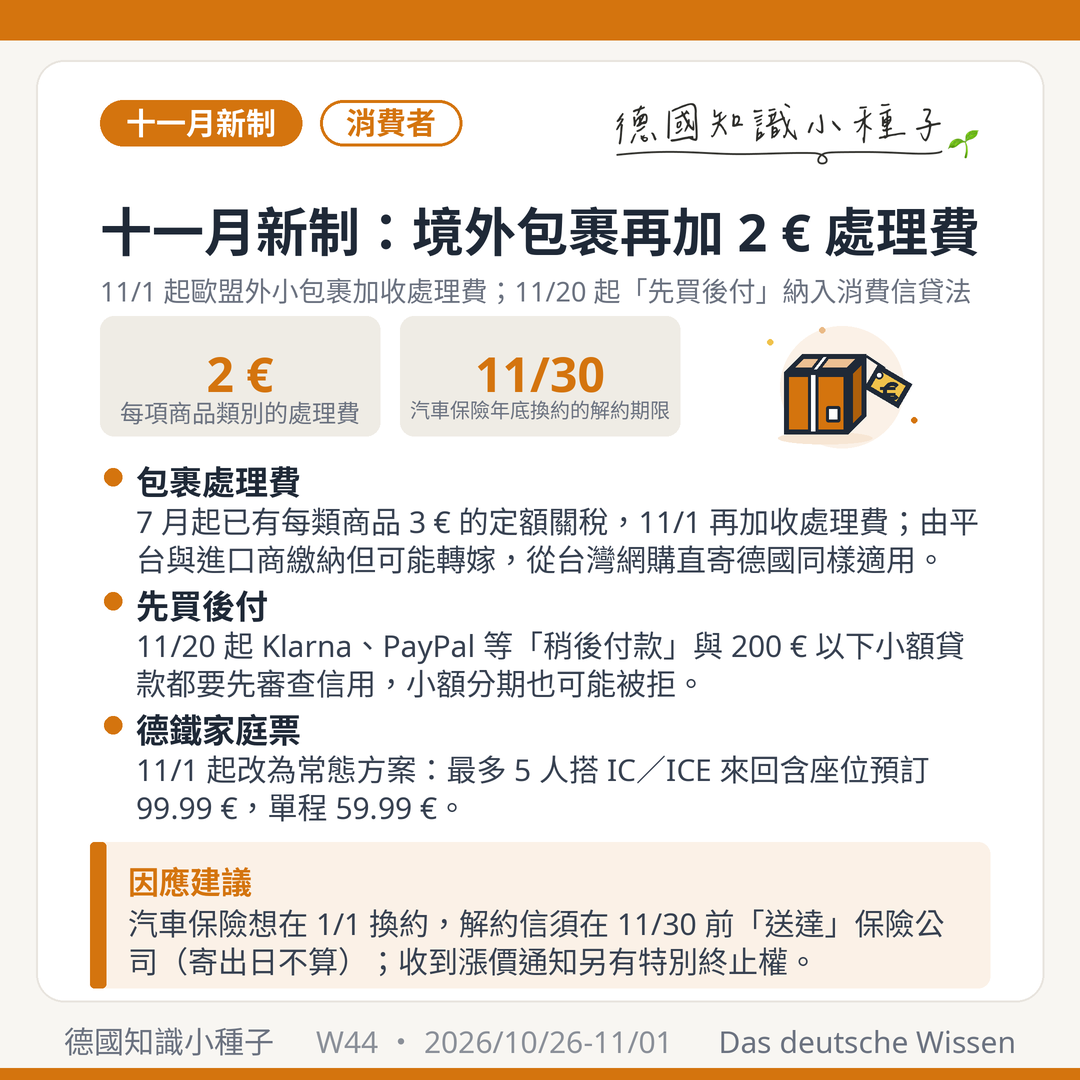
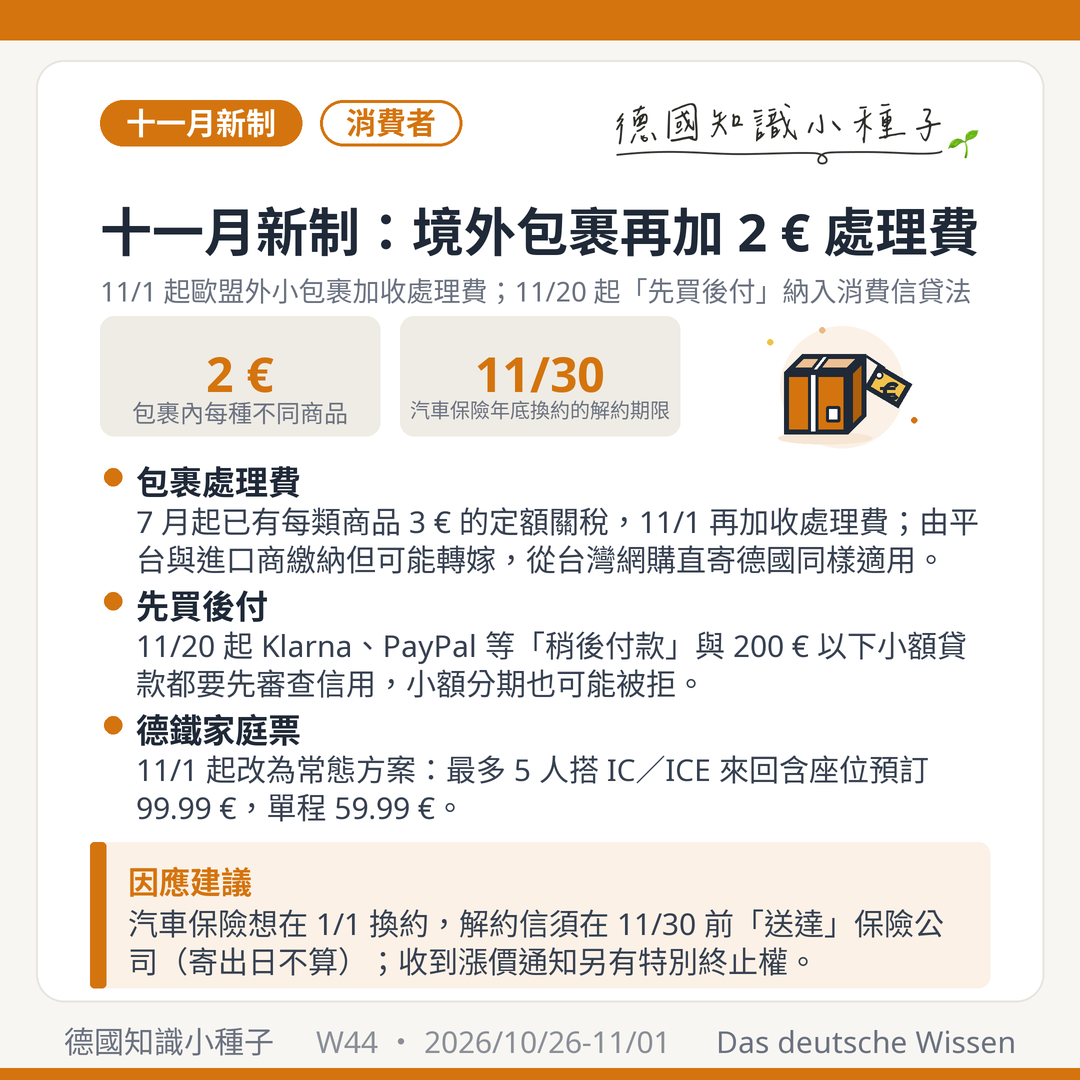
W44 修正：包裹處理費改為「每種商品 2 €」＋福斯第三季財報補實際數字
- 圖卡1 重產：stats 標籤改為「包裹內每種不同商品」
- 更新 data.js 週報段落並重建 weekly-digest.html、feed.xml
- 三版社群稿與 W44_posts.json 同步更新（依德國海關總署說明舉例；福斯 Q3 稅後虧損 58.2 億歐元）

diff --git a/posts/weekly-digest.html b/posts/weekly-digest.html
@@ -6,13 +6,13 @@
 <meta name="viewport" content="width=device-width, initial-scale=1.0" />
 <meta name="referrer" content="strict-origin-when-cross-origin" />
 <title>德國知識小種子週報精選 | 德國知識小種子</title>
-<meta name="description" content="先看荷包：11 月 1 日起，從歐盟以外寄來的小包裹在每類商品 3 € 定額關稅之外，再加收約 2 € 處理費，由平台與進口商繳納但可能轉嫁，從台灣網購直寄同樣適用；11 月 20 日起 Klarna、PayPal 等「先買後付」與 200 € 以下小額貸款都要先審查信用；德鐵家庭票 11 月 1 日起常態化，最多 5" />
+<meta name="description" content="先看荷包：11 月 1 日起，從歐盟以外寄來的小包裹在每類商品 3 € 定額關稅之外，每種商品再加收 2 € 處理費，由平台與進口商繳納但可能轉嫁，從台灣網購直寄同樣適用；11 月 20 日起 Klarna、PayPal 等「先買後付」與 200 € 以下小額貸款都要先審查信用；德鐵家庭票 11 月 1 日起常態化，最" />
 <meta name="robots" content="index, follow" />
 <link rel="canonical" href="https://taiwanese-in-germany.com/posts/weekly-digest.html" />
 <meta property="og:type" content="article" />
 <meta property="og:site_name" content="德國知識小種子 Das deutsche Wissen" />
 <meta property="og:title" content="德國知識小種子週報精選 | 德國知識小種子" />
-<meta property="og:description" content="先看荷包：11 月 1 日起，從歐盟以外寄來的小包裹在每類商品 3 € 定額關稅之外，再加收約 2 € 處理費，由平台與進口商繳納但可能轉嫁，從台灣網購直寄同樣適用；11 月 20 日起 Klarna、PayPal 等「先買後付」與 200 € 以下小額貸款都要先審查信用；德鐵家庭票 11 月 1 日起常態化，最多 5" />
+<meta property="og:description" content="先看荷包：11 月 1 日起，從歐盟以外寄來的小包裹在每類商品 3 € 定額關稅之外，每種商品再加收 2 € 處理費，由平台與進口商繳納但可能轉嫁，從台灣網購直寄同樣適用；11 月 20 日起 Klarna、PayPal 等「先買後付」與 200 € 以下小額貸款都要先審查信用；德鐵家庭票 11 月 1 日起常態化，最" />
 <meta property="og:url" content="https://taiwanese-in-germany.com/posts/weekly-digest.html" />
 <meta property="og:image" content="https://taiwanese-in-germany.com/assets/images/2026/weekly/W44_圖卡1_十一月新制包裹處理費.png" />
 <meta property="og:locale" content="zh_TW" />
@@ -23,9 +23,9 @@
 <meta property="article:tag" content="時事" />
 <meta name="twitter:card" content="summary_large_image" />
 <meta name="twitter:title" content="德國知識小種子週報精選 | 德國知識小種子" />
-<meta name="twitter:description" content="先看荷包：11 月 1 日起，從歐盟以外寄來的小包裹在每類商品 3 € 定額關稅之外，再加收約 2 € 處理費，由平台與進口商繳納但可能轉嫁，從台灣網購直寄同樣適用；11 月 20 日起 Klarna、PayPal 等「先買後付」與 200 € 以下小額貸款都要先審查信用；德鐵家庭票 11 月 1 日起常態化，最多 5" />
+<meta name="twitter:description" content="先看荷包：11 月 1 日起，從歐盟以外寄來的小包裹在每類商品 3 € 定額關稅之外，每種商品再加收 2 € 處理費，由平台與進口商繳納但可能轉嫁，從台灣網購直寄同樣適用；11 月 20 日起 Klarna、PayPal 等「先買後付」與 200 € 以下小額貸款都要先審查信用；德鐵家庭票 11 月 1 日起常態化，最" />
 <meta name="twitter:image" content="https://taiwanese-in-germany.com/assets/images/2026/weekly/W44_圖卡1_十一月新制包裹處理費.png" />
-<script type="application/ld+json">{"@context":"https://schema.org","@type":"BlogPosting","headline":"德國知識小種子週報精選","description":"先看荷包：11 月 1 日起，從歐盟以外寄來的小包裹在每類商品 3 € 定額關稅之外，再加收約 2 € 處理費，由平台與進口商繳納但可能轉嫁，從台灣網購直寄同樣適用；11 月 20 日起 Klarna、PayPal 等「先買後付」與 200 € 以下小額貸款都要先審查信用；德鐵家庭票 11 月 1 日起常態化，最多 5","image":"https://taiwanese-in-germany.com/assets/images/2026/weekly/W44_圖卡1_十一月新制包裹處理費.png","url":"https://taiwanese-in-germany.com/posts/weekly-digest.html","datePublished":"2026-11-01","dateModified":"2026-11-01","author":{"@type":"Person","name":"德國知識小種子","url":"https://taiwanese-in-germany.com"},"publisher":{"@type":"Organization","name":"德國知識小種子 Das deutsche Wissen","url":"https://taiwanese-in-germany.com","logo":{"@type":"ImageObject","url":"https://taiwanese-in-germany.com/assets/logo.png"}},"mainEntityOfPage":{"@type":"WebPage","@id":"https://taiwanese-in-germany.com/posts/weekly-digest.html"},"inLanguage":"zh-TW","keywords":"週報, 德國政策, 時事"}</script>
+<script type="application/ld+json">{"@context":"https://schema.org","@type":"BlogPosting","headline":"德國知識小種子週報精選","description":"先看荷包：11 月 1 日起，從歐盟以外寄來的小包裹在每類商品 3 € 定額關稅之外，每種商品再加收 2 € 處理費，由平台與進口商繳納但可能轉嫁，從台灣網購直寄同樣適用；11 月 20 日起 Klarna、PayPal 等「先買後付」與 200 € 以下小額貸款都要先審查信用；德鐵家庭票 11 月 1 日起常態化，最","image":"https://taiwanese-in-germany.com/assets/images/2026/weekly/W44_圖卡1_十一月新制包裹處理費.png","url":"https://taiwanese-in-germany.com/posts/weekly-digest.html","datePublished":"2026-11-01","dateModified":"2026-11-01","author":{"@type":"Person","name":"德國知識小種子","url":"https://taiwanese-in-germany.com"},"publisher":{"@type":"Organization","name":"德國知識小種子 Das deutsche Wissen","url":"https://taiwanese-in-germany.com","logo":{"@type":"ImageObject","url":"https://taiwanese-in-germany.com/assets/logo.png"}},"mainEntityOfPage":{"@type":"WebPage","@id":"https://taiwanese-in-germany.com/posts/weekly-digest.html"},"inLanguage":"zh-TW","keywords":"週報, 德國政策, 時事"}</script>
 <script type="application/ld+json">{"@context":"https://schema.org","@type":"BreadcrumbList","itemListElement":[{"@type":"ListItem","position":1,"name":"首頁","item":"https://taiwanese-in-germany.com/"},{"@type":"ListItem","position":2,"name":"德國時事","item":"https://taiwanese-in-germany.com/category.html?cat=%E5%BE%B7%E5%9C%8B%E6%99%82%E4%BA%8B"},{"@type":"ListItem","position":3,"name":"德國知識小種子週報精選","item":"https://taiwanese-in-germany.com/posts/weekly-digest.html"}]}</script>
 <link rel="stylesheet" href="/css/style.css" />
 <link rel="alternate" type="application/rss+xml" title="德國知識小種子 RSS" href="/feed.xml" />
@@ -139,7 +139,7 @@
   <article class="post-content"><nav class="post-toc" aria-label="本篇目錄">
   <p class="post-toc__title">快速跳轉</p>
   <ul>
-    <li><a href="#oct26-nov1">10月26日–11月1日：十一月新制（11/1 起歐盟外小包裹在 3 € 定額關稅之外再加收約 2 € 處理費、11/20 起「先買後付」與 200 € 以下小額貸款須審查信用、德鐵家庭票常態化最多 5 人 IC／ICE 來回 99.99 €、汽車保險換約解約信須 11/30 前送達）、金屬電機業 11/1 起可發動警告性罷工（約 370 萬名員工，資方 10/27 首度出價 2027 年一次性給付與 2028 年 7 月調薪 1.3%，IG Metall 要求 12 個月加薪 5%）、賓士下修財測（第三季中國銷量年減 31%、轎車利潤率目標從 3–5% 降到 2–3%，12 月起再以資遣方案縮減數千個行政職位）、德日聯合聲明重申台海和平穩定（Merz 10/26–30 訪新加坡、日本、南韓，與高市早苗簽署關鍵原物料意向書；Steinmeier 同週國事訪問中國）、核廢料最終處置場候選範圍縮到國土 5% 以下（BGE 10/27 公布、5 個邦完全出局、2027 年底提出候選區域）、ifo 景氣指數連升第六個月到 90.2 點（製造業轉強、服務業轉弱）</a></li>
+    <li><a href="#oct26-nov1">10月26日–11月1日：十一月新制（11/1 起歐盟外小包裹在 3 € 定額關稅之外每種商品再加收 2 € 處理費、11/20 起「先買後付」與 200 € 以下小額貸款須審查信用、德鐵家庭票常態化最多 5 人 IC／ICE 來回 99.99 €、汽車保險換約解約信須 11/30 前送達）、金屬電機業 11/1 起可發動警告性罷工（約 370 萬名員工，資方 10/27 首度出價 2027 年一次性給付與 2028 年 7 月調薪 1.3%，IG Metall 要求 12 個月加薪 5%）、賓士下修財測（第三季中國銷量年減 31%、轎車利潤率目標從 3–5% 降到 2–3%，12 月起再以資遣方案縮減數千個行政職位）、德日聯合聲明重申台海和平穩定（Merz 10/26–30 訪新加坡、日本、南韓，與高市早苗簽署關鍵原物料意向書；Steinmeier 同週國事訪問中國）、核廢料最終處置場候選範圍縮到國土 5% 以下（BGE 10/27 公布、5 個邦完全出局、2027 年底提出候選區域）、ifo 景氣指數連升第六個月到 90.2 點（製造業轉強、服務業轉弱）</a></li>
     <li><a href="#oct19-25">10月19日–25日：週日凌晨調回冬令時間（10/25 凌晨 3:00 撥回 2:00、台德時差變 7 小時，歐盟廢除案 2019 年起卡在理事會）、明年瓦斯費恐漲 10–20%（九月生產者物價年增 6.7% 為 2023 年 3 月以來最大、能源年增 14.9%，Verivox 預估 1 月起依方案調漲、年用 2 萬度家庭多付 250–500 €，基本供應調價須 11/20 前通知）、柏林擬將大房東約 16 萬戶收歸公有（柏林邦〔Berlin〕SPD 與綠黨 10/19 同意與左翼黨組閣談判，持有逾 1 萬戶的企業超出部分依基本法第 15 條轉為公有、補償金上限 160 億歐元，Vonovia 稱違憲）、福斯傳凍薪到 2030 年（《南德日報》10/19 披露、IG Metall 證實，全球約 66 萬名員工，公司不評論；金屬電機業和平義務 10/31 到期）、Bosch 汽車事業拆成子公司（10/22 宣布 Mobility 與三個中央服務單位改組為 4 家全資子公司、約 6.25 萬名在德員工 2027/8/1 移轉，不另外裁員）、45 年免扣減退休的育兒與照護年資恐不再採計（聯盟黨構想、SPD 反對，退休改革恐延到 2027 年）、菸稅漲價法因條文疏失 10/21 提前生效（海關暫不執行、菸價暫不變；2030 年一包約 11.78 €）、投資高峰會企業承諾約 2,300 億歐元（經濟部統計 2,286 億歐元、不少為舊案）</a></li>
     <li><a href="#oct12-18">10月12日–18日：健保附加保費 2027 年預估維持 2.9%（健保估算小組 10/14 公布，但各健保公司實際平均已達約 3.13%，調漲時可行使特別終止權）、早鳥退休金 10/16 三讀通過（國家從孩子 6 歲起每月存 10 €、合計 1,440 €，2020 年出生者最先納入，仍待聯邦參議院）、含糖飲料稅 10/14 過內閣（每 100 毫升含糖 5 公克以上每公升 26 歐分、8 公克以上 32 歐分，2027 年 7 月 1 日上路、稅收用於穩定健保）、BMW 自願離職方案開跑（2027 年底前全球縮約 8,000 個職位、據報約 4 萬名德國員工可查看方案；賓士傳 12 月重啟第二輪、福斯終止十份團體協約）、北溪管線爆炸案 10/14 在漢堡開審（烏克蘭籍被告 Serhij K.，辯方主張職務豁免）、聯邦國防軍衛勤團 10 人涉毒品與性不當行為遭調查（薩克森-安哈特邦〔Sachsen-Anhalt〕Weißenfels 駐地）</a></li>
     <li><a href="#oct5-11">10月5日–11日：Deutschland-Ticket 2027 年 1 月起每月 66.80 €（比現行多 3.80 €，首次依成本指數調價；學生票 40.08 €，部分業者要求既有訂閱者主動同意）、保時捷（Porsche）10/7 公布 Sportwagenschmiede '35 轉型計畫而中期人力再縮 25%（車型版本砍約兩成、損益平衡壓到年銷 20 萬輛以下；福斯軟體子公司 Cariad 傳裁約 1,000 個職位、Breyden 年底關閉梅克倫堡-佛波門邦（Mecklenburg-Vorpommern）Ueckermünde 鑄鐵廠約 320 人受影響）、2027 年輸電網費平均漲 24% 而每度從 2.86 升到 3.54 歐分（聯邦補貼降到 55.25 億歐元，Verivox 試算雙人家庭每年約多付 7 €；暖氣費指標預估燒油暖氣年增 24%）、前聯邦情報局（BND）局長 Hanning 涉諜被捕羈押（前辦公室主任涉嫌 2010–2022 年有償提供情報，源自 Block 擄童案搜索）、AfD 首度拿下邦議會議長（薩克森-安哈特邦〔Sachsen-Anhalt〕Rausch 以 48 票當選而 AfD 與 BSW 僅 44 席，議長團三分之二為 AfD）、政府秋季預測上修今年成長到 1.3%（2028 年放緩到 0.6%）而八月工業訂單月減 10.6% 但扣除大單僅 -0.1%</a></li>
@@ -172,16 +172,16 @@
   </ul>
 </nav>
 
-<h2 id="oct26-nov1">10月26日–11月1日：十一月新制（11/1 起境外包裹加收約 2 € 處理費、11/20 起「先買後付」須審查信用、德鐵家庭票 99.99 € 常態化、汽車保險 11/30 前送達解約）、金屬電機業 11/1 起可發動警告性罷工（資方首度出價 2028 年 7 月才調薪 1.3%、工會要求 5%）、賓士下修財測（第三季中國銷量年減 31%、轎車利潤率目標降到 2–3%）、德日聯合聲明重申台海和平穩定（Merz 訪新加坡、日本、南韓，Steinmeier 同週訪中）、核廢料最終處置場候選範圍縮到國土 5% 以下（5 個邦完全出局）、ifo 景氣指數六連升到 90.2 點</h2>
+<h2 id="oct26-nov1">10月26日–11月1日：十一月新制（11/1 起境外包裹每種商品加收 2 € 處理費、11/20 起「先買後付」須審查信用、德鐵家庭票 99.99 € 常態化、汽車保險 11/30 前送達解約）、金屬電機業 11/1 起可發動警告性罷工（資方首度出價 2028 年 7 月才調薪 1.3%、工會要求 5%）、賓士下修財測（第三季中國銷量年減 31%、轎車利潤率目標降到 2–3%）、德日聯合聲明重申台海和平穩定（Merz 訪新加坡、日本、南韓，Steinmeier 同週訪中）、核廢料最終處置場候選範圍縮到國土 5% 以下（5 個邦完全出局）、ifo 景氣指數六連升到 90.2 點</h2>
 <p>這週先從<strong>荷包</strong>看起：11 月 1 日起，從歐盟以外寄來的小包裹在 3 € 定額關稅之外，再加收一筆處理費；11 月 20 日起，Klarna、PayPal 這類「先買後付」也要先審查信用。<strong>汽車業</strong>同時有兩件事：金屬電機業的和平義務 10 月 31 日午夜到期，資方第一次出價被工會打回票，11 月 1 日起可以發動警告性罷工；賓士則因中國銷量崩跌，下修全年財測。<strong>外交面</strong>，總理 Merz 本週出訪新加坡、日本與南韓，與日相高市早苗的聯合聲明寫進了台灣海峽的和平穩定；聯邦總統 Steinmeier 同一週在中國進行國事訪問。另外兩則：核廢料最終處置場的候選範圍縮到國土 5% 以下，以及 ifo 企業景氣指數連升第六個月。</p>
 
 <img src="/assets/images/2026/weekly/W44_圖卡1_十一月新制包裹處理費.png" alt="德國2026年11月新制 11月1日起歐盟以外小包裹在3歐元定額關稅之外加收處理費Bearbeitungsgebühr約2歐元 由平台與進口商繳納 Temu Shein AliExpress 從台灣網購直寄德國同樣適用 11月20日起先買後付Buy now pay later Klarna PayPal與200歐元以下小額貸款納入消費信貸法須審查信用Kreditwürdigkeitsprüfung 德鐵DB家庭票Familienticket 11月1日起常態化 最多5人IC ICE來回含座位預訂99.99歐元 單程59.99歐元 汽車保險Kfz-Versicherung換約解約信須11月30日前送達">
 <h3>十一月新制：境外包裹再加 2 € 處理費、「先買後付」要查信用、德鐵家庭票常態化</h3>
-<p><strong>境外包裹處理費：</strong>歐盟從今年 7 月 1 日起，對價值 150 € 以下、從歐盟以外寄來的小包裹，每一類商品收取 <strong>3 € 定額關稅</strong>（見本站 <a href="#jun29-jul5">W27</a>）；<strong>11 月 1 日起再加收一筆處理費（Bearbeitungsgebühr）</strong>。依多家德國與奧地利媒體報導，金額為<strong>每項商品類別約 2 €</strong>，退貨不退還，而且和 3 € 關稅不同，處理費預計會<strong>長期實施</strong>。依歐盟成員國的說法，處理費由<strong>線上平台與進口商</strong>負責繳納，但業者很可能把成本轉嫁給消費者，Temu、Shein、AliExpress 與 Amazon 等平台都在範圍內。要注意，「每項商品類別」的計算方式在各國官方文件中說法並不一致（有的寫「每項商品」、有的寫「每個產品群組」），實際收費要看平台結帳時的明細。<strong>台灣在關稅意義上同樣是第三國</strong>，從台灣網購直寄德國的包裹一體適用。</p>
+<p><strong>境外包裹處理費：</strong>歐盟從今年 7 月 1 日起，對價值 150 € 以下、從歐盟以外寄來的小包裹，每一類商品收取 <strong>3 € 定額關稅</strong>（見本站 <a href="#jun29-jul5">W27</a>）；<strong>11 月 1 日起再加收一筆處理費（Bearbeitungsgebühr）</strong>。德國海關總署（Generalzolldirektion）說明，金額是<strong>包裹內每一種不同貨品（Warenposition）2 €</strong>，看的是品項數、不是件數：一件 T 恤、一個手機殼加一本書要付 6 €，四件同款 T 恤則只算一次 2 €。處理費退貨不退還，而且和 3 € 關稅不同，處理費預計會<strong>長期實施</strong>。依歐盟成員國的說法，處理費由<strong>線上平台與進口商</strong>負責繳納，但業者很可能把成本轉嫁給消費者，Temu、Shein、AliExpress 與 Amazon 等平台都在範圍內。實際收費仍以平台結帳時的明細為準。<strong>台灣在關稅意義上同樣是第三國</strong>，從台灣網購直寄德國的包裹一體適用。</p>
 <p><strong>「先買後付」要先查信用：</strong>歐盟新版消費信貸指令的德國施行法 <strong>11 月 20 日</strong>上路。過去免息的「稍後付款」（Buy now, pay later）、<strong>200 € 以下的小額貸款</strong>與三個月內還清的短期貸款不受消費信貸法規範，今後都要納入：業者<strong>不論金額大小，都必須在成約前審查借款人的信用（Kreditwürdigkeitsprüfung）</strong>，並清楚揭露費用與風險。消費者團體與業界都提醒，這代表以往按一下就通過的 Klarna、PayPal、Ratepay 分期或延後付款，<strong>未來可能被拒</strong>，即使只是小額購物。另一項改變是「永久撤回權」走入歷史：若業者提供的法定資訊有瑕疵，撤回期限今後最長為 12 個月又 14 天。📖 <strong>延伸閱讀</strong>：信用審查多半會參考 Schufa 紀錄，想先看看自己的狀況，可參考<a href="/posts/schufa-free.html">如何免費申請德國 Schufa 證明</a>。</p>
 <p><strong>德鐵家庭票常態化：</strong>德國鐵路（DB）今年夏天試辦的家庭票反應熱烈，執行長 Evelyn Palla 表示比去年多載了 10 萬個家庭，因此改為常態方案，<strong>10 月 26 日開賣、11 月 1 日起可搭乘</strong>：最多 5 人（含兒童）搭 IC／ICE 來回，<strong>含座位預訂 99.99 €</strong>，單程 59.99 €。成人與兒童的人數組合，各媒體依夏季版規則的說法略有出入，訂票前請以 DB 官網條件為準。</p>
 <p><strong>因應建議：</strong>汽車保險多以曆年為契約期，想在 1 月 1 日換到別家，<strong>解約信必須在 11 月 30 日前「送達」保險公司</strong>，寄出日不算。德國保險業協會（GDV）9 月底公布的 2027 年車型等級（Typklassen）中，約 740 萬名駕駛的責任險等級調高、510 萬名調低；保險公司多在 11 月寄出新年度保費通知，若因此漲價，另有<strong>特別終止權（Sonderkündigungsrecht）</strong>，可在收到通知後解約。另外，11 月 1 日起也可以申請 2027 年的薪資稅免稅額（Lohnsteuerfreibetrag）；歐盟新的汽車排放標準 Euro 7 則自 11 月 29 日起適用於新認證車型，已登記的車輛不須改裝。</p>
-<p class="post-sources">📚 來源：<a href="https://www.t-online.de/finanzen/aktuelles/verbraucher/id_101438534/temu-shein-co-pakete-ausserhalb-der-eu-werden-zum-1-november-teurer.html" target="_blank" rel="noopener noreferrer">t-online：歐盟外包裹 11/1 起變貴</a> · <a href="https://orf.at/stories/3425106/" target="_blank" rel="noopener noreferrer">ORF：廉價網購商品處理費上路</a> · <a href="https://www.deutsche-handwerks-zeitung.de/aenderungen-im-november-2026-zoll-reformen-und-kleinkredite-385584/" target="_blank" rel="noopener noreferrer">Deutsche Handwerks Zeitung：十一月新制</a> · <a href="https://www.test.de/Verbraucherkreditrichtlinie-6337900-0/" target="_blank" rel="noopener noreferrer">Stiftung Warentest：新版消費信貸指令</a> · <a href="https://www.haendlerbund.de/de/ratgeber/recht/verbraucherkreditrichtlinie" target="_blank" rel="noopener noreferrer">Händlerbund：消費信貸指令對付款方式的新規</a> · <a href="https://www.netzwelt.de/news/259765-ab-20-november-paypal-ratepay-klarna-spaeter-bezahlen-ploetzlich-abgelehnt.html" target="_blank" rel="noopener noreferrer">netzwelt：11/20 起「稍後付款」可能被拒</a> · <a href="https://www.stuttgarter-zeitung.de/wirtschaft/ab-november-deutsche-bahn-bietet-familienticket-dauerhaft-an-79529536.html" target="_blank" rel="noopener noreferrer">Stuttgarter Zeitung：德鐵家庭票常態化</a> · <a href="https://www.cash-online.de/a/neue-typklassen-2027-diese-kfz-modelle-werden-teurer-diese-guenstiger-726766/" target="_blank" rel="noopener noreferrer">cash.：2027 年車型等級</a></p>
+<p class="post-sources">📚 來源：<a href="https://www.presseportal.de/blaulicht/pm/120080/6380083" target="_blank" rel="noopener noreferrer">德國海關總署：新的處理費（Union Handling Fee）</a> · <a href="https://www.t-online.de/finanzen/aktuelles/verbraucher/id_101438534/temu-shein-co-pakete-ausserhalb-der-eu-werden-zum-1-november-teurer.html" target="_blank" rel="noopener noreferrer">t-online：歐盟外包裹 11/1 起變貴</a> · <a href="https://orf.at/stories/3425106/" target="_blank" rel="noopener noreferrer">ORF：廉價網購商品處理費上路</a> · <a href="https://www.deutsche-handwerks-zeitung.de/aenderungen-im-november-2026-zoll-reformen-und-kleinkredite-385584/" target="_blank" rel="noopener noreferrer">Deutsche Handwerks Zeitung：十一月新制</a> · <a href="https://www.test.de/Verbraucherkreditrichtlinie-6337900-0/" target="_blank" rel="noopener noreferrer">Stiftung Warentest：新版消費信貸指令</a> · <a href="https://www.haendlerbund.de/de/ratgeber/recht/verbraucherkreditrichtlinie" target="_blank" rel="noopener noreferrer">Händlerbund：消費信貸指令對付款方式的新規</a> · <a href="https://www.netzwelt.de/news/259765-ab-20-november-paypal-ratepay-klarna-spaeter-bezahlen-ploetzlich-abgelehnt.html" target="_blank" rel="noopener noreferrer">netzwelt：11/20 起「稍後付款」可能被拒</a> · <a href="https://www.stuttgarter-zeitung.de/wirtschaft/ab-november-deutsche-bahn-bietet-familienticket-dauerhaft-an-79529536.html" target="_blank" rel="noopener noreferrer">Stuttgarter Zeitung：德鐵家庭票常態化</a> · <a href="https://www.cash-online.de/a/neue-typklassen-2027-diese-kfz-modelle-werden-teurer-diese-guenstiger-726766/" target="_blank" rel="noopener noreferrer">cash.：2027 年車型等級</a></p>
 
 <img src="/assets/images/2026/weekly/W44_圖卡2_金屬業十一月起可罷工.png" alt="德國金屬電機業Metall- und Elektroindustrie 2026年11月1日起可發動警告性罷工Warnstreik 和平義務Friedenspflicht 10月31日午夜到期 約370萬名員工 資方Gesamtmetall 10月27日首度出價 2027年7月年薪1%一次性給付 2028年7月起調薪1.3% 協約至2028年底 IG Metall要求12個月內加薪5% 北萊茵-西發利亞邦Nordrhein-Westfalen批評負成長 下薩克森邦Niedersachsen 11月1日起號召罷工 福斯適用企業協約">
 <h3>金屬電機業 11/1 起可發動警告性罷工：資方首度出價 2028 年才調薪 1.3%</h3>
@@ -196,8 +196,8 @@
 <p>賓士（Mercedes-Benz）10 月 28 日公布第三季財報：歸屬股東的<strong>淨利約 15.2 億歐元</strong>，年增近 28%；營業利益（EBIT）17.7 億歐元，去年同期只有 7.5 億歐元。但這個「成長」主要來自<strong>去年同期的低基期</strong>——當時認列了大筆裁員等一次性費用。營運面其實在退步：<strong>營收 307 億歐元、年減 4.5%</strong>，轎車銷量 40.72 萬輛、年減 8%，其中<strong>中國只賣出 8.68 萬輛、年減 31%</strong>；中國以外的銷量約持平（+1%），純電車則成長 61%。</p>
 <p><strong>為何下修：</strong>賓士前一天已宣布下修 2026 年財測，<strong>轎車部門的調整後銷售報酬率從 3–5% 降到 2–3%</strong>，集團營業利益從原本預估的「顯著成長」改為<strong>與去年持平</strong>，工業部門的自由現金流也會明顯低於預期。公司的說法是中國市場的競爭「愈來愈嚴峻」，加上第四季原物料等成本上升。消息公布當天股價跌約 4–5%；BMW 與福斯稍早也都已下修財測。</p>
 <p><strong>撙節加碼：</strong>據《新蘇黎世報》（NZZ）報導，賓士 <strong>12 月初起</strong>將再以資遣方案縮減數千個職位、以行政部門為主，目標是<strong>每年永久減少 10 億歐元人事成本</strong>（本站 <a href="#oct12-18">W42</a> 已報導賓士傳 12 月重啟第二輪自願離職方案）；整體目標是每年減少 50 億歐元支出，以彌補中國的衰退。執行長 Ola Källenius 也表示，未來要讓更多車款直接在中國研發與生產，並擴大<strong>匈牙利</strong>的產能——他說那裡的成本比德國低約七成。中國依賴要怎麼降低，更具體的計畫預計明年 2 月隨 2027 年財測一起公布。</p>
-<p><strong>數據解讀：</strong>同一週，福斯集團於 10 月 29 日公布第三季財報。福斯第三季全球交車 189 萬輛、年減約 14%，中國少了近四成；市場預期受保時捷（Porsche）商譽減損約 60 億歐元等一次性費用拖累，單季轉為虧損，但這筆減損屬帳面調整、不涉及現金流出。德國三大車廠同時被中國市場拖累，對在德國的就業意味著撙節不會在今年畫下句點。</p>
-<p class="post-sources">📚 來源：<a href="https://www.onvista.de/news/2026/10-28-mercedes-macht-nach-schwachem-vorjahresquartal-mehr-gewinn-0-10-26569138" target="_blank" rel="noopener noreferrer">onvista（dpa-AFX）：賓士獲利在去年低基期上回升</a> · <a href="https://finanzen.net/nachricht/aktien/zahlen-praesentiert-mercedes-benz-aktie-mehr-gewinn-nach-schwachem-vorjahresquartal-16013642" target="_blank" rel="noopener noreferrer">finanzen.net：賓士第三季數字</a> · <a href="https://www.nzz.ch/wirtschaft/neuer-china-schock-fuer-mercedes-der-autobauer-muss-seine-prognose-nach-unten-korrigieren-ld.10045981" target="_blank" rel="noopener noreferrer">NZZ：賓士的中國新衝擊與下修財測</a> · <a href="https://www.onvista.de/news/2026/10-28-mercedes-benz-die-gesenkte-prognose-mahnt-zur-vorsicht-40338625-19-26569412" target="_blank" rel="noopener noreferrer">onvista：下修財測的警訊</a> · <a href="https://www.finanznachrichten.de/nachrichten-2026-10/69810210-volkswagen-absatz-sinkt-im-3-quartal-um-14-prozent-015.htm" target="_blank" rel="noopener noreferrer">finanznachrichten：福斯第三季交車減 14%</a></p>
+<p><strong>數據解讀：</strong>同一週，福斯集團 10 月 29 日公布第三季財報：<strong>稅後虧損 58.2 億歐元</strong>（去年同期虧損約 10.7 億），營業損益為負 58.6 億歐元，比路透調查的分析師預估（約負 26 億）差得多。主因是保時捷（Porsche）<strong>商譽減損 64 億歐元</strong>，一次性費用合計 78 億歐元；這筆減損屬帳面調整、不涉及現金流出。營收 752.8 億歐元、年減 6.3%，全球交車 189 萬輛、年減 14.3%，<strong>中國銷量年減 38.5%</strong>。前三季累計稅後虧損 27.2 億歐元，據 dpa，福斯可能迎來柴油門以來第一個虧損年度。德國三大車廠同時被中國市場拖累，對在德國的就業意味著撙節不會在今年畫下句點。</p>
+<p class="post-sources">📚 來源：<a href="https://www.onvista.de/news/2026/10-28-mercedes-macht-nach-schwachem-vorjahresquartal-mehr-gewinn-0-10-26569138" target="_blank" rel="noopener noreferrer">onvista（dpa-AFX）：賓士獲利在去年低基期上回升</a> · <a href="https://finanzen.net/nachricht/aktien/zahlen-praesentiert-mercedes-benz-aktie-mehr-gewinn-nach-schwachem-vorjahresquartal-16013642" target="_blank" rel="noopener noreferrer">finanzen.net：賓士第三季數字</a> · <a href="https://www.nzz.ch/wirtschaft/neuer-china-schock-fuer-mercedes-der-autobauer-muss-seine-prognose-nach-unten-korrigieren-ld.10045981" target="_blank" rel="noopener noreferrer">NZZ：賓士的中國新衝擊與下修財測</a> · <a href="https://www.onvista.de/news/2026/10-28-mercedes-benz-die-gesenkte-prognose-mahnt-zur-vorsicht-40338625-19-26569412" target="_blank" rel="noopener noreferrer">onvista：下修財測的警訊</a> · <a href="https://www.finanznachrichten.de/nachrichten-2026-10/69810210-volkswagen-absatz-sinkt-im-3-quartal-um-14-prozent-015.htm" target="_blank" rel="noopener noreferrer">finanznachrichten：福斯第三季交車減 14%</a> · <a href="https://www.onvista.de/news/2026/10-29-vw-meldet-milliardenverlust-im-dritten-quartal-0-10-26569698" target="_blank" rel="noopener noreferrer">onvista：福斯第三季虧損 58.2 億歐元</a></p>
 
 <img src="/assets/images/2026/weekly/W44_圖卡4_德日聯合聲明提台海.png" alt="德國總理Merz 2026年10月26日至30日亞洲行 新加坡 日本 南韓 10月28日在東京與日本首相高市早苗會談 德日聯合聲明 強調台灣海峽和平穩定的重要性 呼籲和平解決兩岸問題 反對以武力或脅迫改變東海南海現狀 簽署關鍵原物料合作意向書 汽車業稀土來源多元化 嚴重關切任意出口管制 聯邦總統Steinmeier 10月27日至31日國事訪問中國 近8年首位訪中的德國總統 預定與習近平李強會談 南韓站與李在明談國防電池半導體">
 <h3>德日聯合聲明重申台海和平穩定：Merz 亞洲行，Steinmeier 同週訪中</h3>

diff --git a/js/data.js b/js/data.js
@@ -1031,14 +1031,14 @@ const POSTS = [
     date: '2026-11-01',
     categories: ['德國時事'],
     tags: ['週報', '德國政策', '時事'],
-    excerpt: '先看荷包：11 月 1 日起，從歐盟以外寄來的小包裹在每類商品 3 € 定額關稅之外，再加收約 2 € 處理費，由平台與進口商繳納但可能轉嫁，從台灣網購直寄同樣適用；11 月 20 日起 Klarna、PayPal 等「先買後付」與 200 € 以下小額貸款都要先審查信用；德鐵家庭票 11 月 1 日起常態化，最多 5 人 IC／ICE 來回含座位預訂 99.99 €；汽車保險想在 1 月 1 日換約，解約信須在 11 月 30 日前送達。汽車業方面，金屬電機業和平義務 10 月 31 日到期，資方 10 月 27 日首度出價 2027 年一次性給付、2028 年 7 月才調薪 1.3%，IG Metall 要求 5% 並宣布 11 月 1 日起可發動警告性罷工；賓士第三季中國銷量年減 31%，下修全年財測、轎車利潤率目標降到 2–3%。外交上，總理 Merz 出訪新加坡、日本與南韓，10 月 28 日與日相高市早苗的聯合聲明重申台灣海峽和平穩定的重要性，聯邦總統 Steinmeier 同週國事訪問中國。另有核廢料最終處置場候選範圍縮到國土 5% 以下、5 個邦完全出局，以及 ifo 企業景氣指數連升第六個月到 90.2 點。',
+    excerpt: '先看荷包：11 月 1 日起，從歐盟以外寄來的小包裹在每類商品 3 € 定額關稅之外，每種商品再加收 2 € 處理費，由平台與進口商繳納但可能轉嫁，從台灣網購直寄同樣適用；11 月 20 日起 Klarna、PayPal 等「先買後付」與 200 € 以下小額貸款都要先審查信用；德鐵家庭票 11 月 1 日起常態化，最多 5 人 IC／ICE 來回含座位預訂 99.99 €；汽車保險想在 1 月 1 日換約，解約信須在 11 月 30 日前送達。汽車業方面，金屬電機業和平義務 10 月 31 日到期，資方 10 月 27 日首度出價 2027 年一次性給付、2028 年 7 月才調薪 1.3%，IG Metall 要求 5% 並宣布 11 月 1 日起可發動警告性罷工；賓士第三季中國銷量年減 31%，下修全年財測、轎車利潤率目標降到 2–3%。外交上，總理 Merz 出訪新加坡、日本與南韓，10 月 28 日與日相高市早苗的聯合聲明重申台灣海峽和平穩定的重要性，聯邦總統 Steinmeier 同週國事訪問中國。另有核廢料最終處置場候選範圍縮到國土 5% 以下、5 個邦完全出局，以及 ifo 企業景氣指數連升第六個月到 90.2 點。',
 
     emoji: '🌱',
     content: `
 <nav class="post-toc" aria-label="本篇目錄">
   <p class="post-toc__title">快速跳轉</p>
   <ul>
-    <li><a href="#oct26-nov1">10月26日–11月1日：十一月新制（11/1 起歐盟外小包裹在 3 € 定額關稅之外再加收約 2 € 處理費、11/20 起「先買後付」與 200 € 以下小額貸款須審查信用、德鐵家庭票常態化最多 5 人 IC／ICE 來回 99.99 €、汽車保險換約解約信須 11/30 前送達）、金屬電機業 11/1 起可發動警告性罷工（約 370 萬名員工，資方 10/27 首度出價 2027 年一次性給付與 2028 年 7 月調薪 1.3%，IG Metall 要求 12 個月加薪 5%）、賓士下修財測（第三季中國銷量年減 31%、轎車利潤率目標從 3–5% 降到 2–3%，12 月起再以資遣方案縮減數千個行政職位）、德日聯合聲明重申台海和平穩定（Merz 10/26–30 訪新加坡、日本、南韓，與高市早苗簽署關鍵原物料意向書；Steinmeier 同週國事訪問中國）、核廢料最終處置場候選範圍縮到國土 5% 以下（BGE 10/27 公布、5 個邦完全出局、2027 年底提出候選區域）、ifo 景氣指數連升第六個月到 90.2 點（製造業轉強、服務業轉弱）</a></li>
+    <li><a href="#oct26-nov1">10月26日–11月1日：十一月新制（11/1 起歐盟外小包裹在 3 € 定額關稅之外每種商品再加收 2 € 處理費、11/20 起「先買後付」與 200 € 以下小額貸款須審查信用、德鐵家庭票常態化最多 5 人 IC／ICE 來回 99.99 €、汽車保險換約解約信須 11/30 前送達）、金屬電機業 11/1 起可發動警告性罷工（約 370 萬名員工，資方 10/27 首度出價 2027 年一次性給付與 2028 年 7 月調薪 1.3%，IG Metall 要求 12 個月加薪 5%）、賓士下修財測（第三季中國銷量年減 31%、轎車利潤率目標從 3–5% 降到 2–3%，12 月起再以資遣方案縮減數千個行政職位）、德日聯合聲明重申台海和平穩定（Merz 10/26–30 訪新加坡、日本、南韓，與高市早苗簽署關鍵原物料意向書；Steinmeier 同週國事訪問中國）、核廢料最終處置場候選範圍縮到國土 5% 以下（BGE 10/27 公布、5 個邦完全出局、2027 年底提出候選區域）、ifo 景氣指數連升第六個月到 90.2 點（製造業轉強、服務業轉弱）</a></li>
     <li><a href="#oct19-25">10月19日–25日：週日凌晨調回冬令時間（10/25 凌晨 3:00 撥回 2:00、台德時差變 7 小時，歐盟廢除案 2019 年起卡在理事會）、明年瓦斯費恐漲 10–20%（九月生產者物價年增 6.7% 為 2023 年 3 月以來最大、能源年增 14.9%，Verivox 預估 1 月起依方案調漲、年用 2 萬度家庭多付 250–500 €，基本供應調價須 11/20 前通知）、柏林擬將大房東約 16 萬戶收歸公有（柏林邦〔Berlin〕SPD 與綠黨 10/19 同意與左翼黨組閣談判，持有逾 1 萬戶的企業超出部分依基本法第 15 條轉為公有、補償金上限 160 億歐元，Vonovia 稱違憲）、福斯傳凍薪到 2030 年（《南德日報》10/19 披露、IG Metall 證實，全球約 66 萬名員工，公司不評論；金屬電機業和平義務 10/31 到期）、Bosch 汽車事業拆成子公司（10/22 宣布 Mobility 與三個中央服務單位改組為 4 家全資子公司、約 6.25 萬名在德員工 2027/8/1 移轉，不另外裁員）、45 年免扣減退休的育兒與照護年資恐不再採計（聯盟黨構想、SPD 反對，退休改革恐延到 2027 年）、菸稅漲價法因條文疏失 10/21 提前生效（海關暫不執行、菸價暫不變；2030 年一包約 11.78 €）、投資高峰會企業承諾約 2,300 億歐元（經濟部統計 2,286 億歐元、不少為舊案）</a></li>
     <li><a href="#oct12-18">10月12日–18日：健保附加保費 2027 年預估維持 2.9%（健保估算小組 10/14 公布，但各健保公司實際平均已達約 3.13%，調漲時可行使特別終止權）、早鳥退休金 10/16 三讀通過（國家從孩子 6 歲起每月存 10 €、合計 1,440 €，2020 年出生者最先納入，仍待聯邦參議院）、含糖飲料稅 10/14 過內閣（每 100 毫升含糖 5 公克以上每公升 26 歐分、8 公克以上 32 歐分，2027 年 7 月 1 日上路、稅收用於穩定健保）、BMW 自願離職方案開跑（2027 年底前全球縮約 8,000 個職位、據報約 4 萬名德國員工可查看方案；賓士傳 12 月重啟第二輪、福斯終止十份團體協約）、北溪管線爆炸案 10/14 在漢堡開審（烏克蘭籍被告 Serhij K.，辯方主張職務豁免）、聯邦國防軍衛勤團 10 人涉毒品與性不當行為遭調查（薩克森-安哈特邦〔Sachsen-Anhalt〕Weißenfels 駐地）</a></li>
     <li><a href="#oct5-11">10月5日–11日：Deutschland-Ticket 2027 年 1 月起每月 66.80 €（比現行多 3.80 €，首次依成本指數調價；學生票 40.08 €，部分業者要求既有訂閱者主動同意）、保時捷（Porsche）10/7 公布 Sportwagenschmiede ’35 轉型計畫而中期人力再縮 25%（車型版本砍約兩成、損益平衡壓到年銷 20 萬輛以下；福斯軟體子公司 Cariad 傳裁約 1,000 個職位、Breyden 年底關閉梅克倫堡-佛波門邦（Mecklenburg-Vorpommern）Ueckermünde 鑄鐵廠約 320 人受影響）、2027 年輸電網費平均漲 24% 而每度從 2.86 升到 3.54 歐分（聯邦補貼降到 55.25 億歐元，Verivox 試算雙人家庭每年約多付 7 €；暖氣費指標預估燒油暖氣年增 24%）、前聯邦情報局（BND）局長 Hanning 涉諜被捕羈押（前辦公室主任涉嫌 2010–2022 年有償提供情報，源自 Block 擄童案搜索）、AfD 首度拿下邦議會議長（薩克森-安哈特邦〔Sachsen-Anhalt〕Rausch 以 48 票當選而 AfD 與 BSW 僅 44 席，議長團三分之二為 AfD）、政府秋季預測上修今年成長到 1.3%（2028 年放緩到 0.6%）而八月工業訂單月減 10.6% 但扣除大單僅 -0.1%</a></li>
@@ -1071,16 +1071,16 @@ const POSTS = [
   </ul>
 </nav>
 
-<h2 id="oct26-nov1">10月26日–11月1日：十一月新制（11/1 起境外包裹加收約 2 € 處理費、11/20 起「先買後付」須審查信用、德鐵家庭票 99.99 € 常態化、汽車保險 11/30 前送達解約）、金屬電機業 11/1 起可發動警告性罷工（資方首度出價 2028 年 7 月才調薪 1.3%、工會要求 5%）、賓士下修財測（第三季中國銷量年減 31%、轎車利潤率目標降到 2–3%）、德日聯合聲明重申台海和平穩定（Merz 訪新加坡、日本、南韓，Steinmeier 同週訪中）、核廢料最終處置場候選範圍縮到國土 5% 以下（5 個邦完全出局）、ifo 景氣指數六連升到 90.2 點</h2>
+<h2 id="oct26-nov1">10月26日–11月1日：十一月新制（11/1 起境外包裹每種商品加收 2 € 處理費、11/20 起「先買後付」須審查信用、德鐵家庭票 99.99 € 常態化、汽車保險 11/30 前送達解約）、金屬電機業 11/1 起可發動警告性罷工（資方首度出價 2028 年 7 月才調薪 1.3%、工會要求 5%）、賓士下修財測（第三季中國銷量年減 31%、轎車利潤率目標降到 2–3%）、德日聯合聲明重申台海和平穩定（Merz 訪新加坡、日本、南韓，Steinmeier 同週訪中）、核廢料最終處置場候選範圍縮到國土 5% 以下（5 個邦完全出局）、ifo 景氣指數六連升到 90.2 點</h2>
 <p>這週先從<strong>荷包</strong>看起：11 月 1 日起，從歐盟以外寄來的小包裹在 3 € 定額關稅之外，再加收一筆處理費；11 月 20 日起，Klarna、PayPal 這類「先買後付」也要先審查信用。<strong>汽車業</strong>同時有兩件事：金屬電機業的和平義務 10 月 31 日午夜到期，資方第一次出價被工會打回票，11 月 1 日起可以發動警告性罷工；賓士則因中國銷量崩跌，下修全年財測。<strong>外交面</strong>，總理 Merz 本週出訪新加坡、日本與南韓，與日相高市早苗的聯合聲明寫進了台灣海峽的和平穩定；聯邦總統 Steinmeier 同一週在中國進行國事訪問。另外兩則：核廢料最終處置場的候選範圍縮到國土 5% 以下，以及 ifo 企業景氣指數連升第六個月。</p>
 
 <img src="assets/images/2026/weekly/W44_圖卡1_十一月新制包裹處理費.png" alt="德國2026年11月新制 11月1日起歐盟以外小包裹在3歐元定額關稅之外加收處理費Bearbeitungsgebühr約2歐元 由平台與進口商繳納 Temu Shein AliExpress 從台灣網購直寄德國同樣適用 11月20日起先買後付Buy now pay later Klarna PayPal與200歐元以下小額貸款納入消費信貸法須審查信用Kreditwürdigkeitsprüfung 德鐵DB家庭票Familienticket 11月1日起常態化 最多5人IC ICE來回含座位預訂99.99歐元 單程59.99歐元 汽車保險Kfz-Versicherung換約解約信須11月30日前送達">
 <h3>十一月新制：境外包裹再加 2 € 處理費、「先買後付」要查信用、德鐵家庭票常態化</h3>
-<p><strong>境外包裹處理費：</strong>歐盟從今年 7 月 1 日起，對價值 150 € 以下、從歐盟以外寄來的小包裹，每一類商品收取 <strong>3 € 定額關稅</strong>（見本站 <a href="#jun29-jul5">W27</a>）；<strong>11 月 1 日起再加收一筆處理費（Bearbeitungsgebühr）</strong>。依多家德國與奧地利媒體報導，金額為<strong>每項商品類別約 2 €</strong>，退貨不退還，而且和 3 € 關稅不同，處理費預計會<strong>長期實施</strong>。依歐盟成員國的說法，處理費由<strong>線上平台與進口商</strong>負責繳納，但業者很可能把成本轉嫁給消費者，Temu、Shein、AliExpress 與 Amazon 等平台都在範圍內。要注意，「每項商品類別」的計算方式在各國官方文件中說法並不一致（有的寫「每項商品」、有的寫「每個產品群組」），實際收費要看平台結帳時的明細。<strong>台灣在關稅意義上同樣是第三國</strong>，從台灣網購直寄德國的包裹一體適用。</p>
+<p><strong>境外包裹處理費：</strong>歐盟從今年 7 月 1 日起，對價值 150 € 以下、從歐盟以外寄來的小包裹，每一類商品收取 <strong>3 € 定額關稅</strong>（見本站 <a href="#jun29-jul5">W27</a>）；<strong>11 月 1 日起再加收一筆處理費（Bearbeitungsgebühr）</strong>。德國海關總署（Generalzolldirektion）說明，金額是<strong>包裹內每一種不同貨品（Warenposition）2 €</strong>，看的是品項數、不是件數：一件 T 恤、一個手機殼加一本書要付 6 €，四件同款 T 恤則只算一次 2 €。處理費退貨不退還，而且和 3 € 關稅不同，處理費預計會<strong>長期實施</strong>。依歐盟成員國的說法，處理費由<strong>線上平台與進口商</strong>負責繳納，但業者很可能把成本轉嫁給消費者，Temu、Shein、AliExpress 與 Amazon 等平台都在範圍內。實際收費仍以平台結帳時的明細為準。<strong>台灣在關稅意義上同樣是第三國</strong>，從台灣網購直寄德國的包裹一體適用。</p>
 <p><strong>「先買後付」要先查信用：</strong>歐盟新版消費信貸指令的德國施行法 <strong>11 月 20 日</strong>上路。過去免息的「稍後付款」（Buy now, pay later）、<strong>200 € 以下的小額貸款</strong>與三個月內還清的短期貸款不受消費信貸法規範，今後都要納入：業者<strong>不論金額大小，都必須在成約前審查借款人的信用（Kreditwürdigkeitsprüfung）</strong>，並清楚揭露費用與風險。消費者團體與業界都提醒，這代表以往按一下就通過的 Klarna、PayPal、Ratepay 分期或延後付款，<strong>未來可能被拒</strong>，即使只是小額購物。另一項改變是「永久撤回權」走入歷史：若業者提供的法定資訊有瑕疵，撤回期限今後最長為 12 個月又 14 天。📖 <strong>延伸閱讀</strong>：信用審查多半會參考 Schufa 紀錄，想先看看自己的狀況，可參考<a href="/posts/schufa-free.html">如何免費申請德國 Schufa 證明</a>。</p>
 <p><strong>德鐵家庭票常態化：</strong>德國鐵路（DB）今年夏天試辦的家庭票反應熱烈，執行長 Evelyn Palla 表示比去年多載了 10 萬個家庭，因此改為常態方案，<strong>10 月 26 日開賣、11 月 1 日起可搭乘</strong>：最多 5 人（含兒童）搭 IC／ICE 來回，<strong>含座位預訂 99.99 €</strong>，單程 59.99 €。成人與兒童的人數組合，各媒體依夏季版規則的說法略有出入，訂票前請以 DB 官網條件為準。</p>
 <p><strong>因應建議：</strong>汽車保險多以曆年為契約期，想在 1 月 1 日換到別家，<strong>解約信必須在 11 月 30 日前「送達」保險公司</strong>，寄出日不算。德國保險業協會（GDV）9 月底公布的 2027 年車型等級（Typklassen）中，約 740 萬名駕駛的責任險等級調高、510 萬名調低；保險公司多在 11 月寄出新年度保費通知，若因此漲價，另有<strong>特別終止權（Sonderkündigungsrecht）</strong>，可在收到通知後解約。另外，11 月 1 日起也可以申請 2027 年的薪資稅免稅額（Lohnsteuerfreibetrag）；歐盟新的汽車排放標準 Euro 7 則自 11 月 29 日起適用於新認證車型，已登記的車輛不須改裝。</p>
-<p class="post-sources">📚 來源：<a href="https://www.t-online.de/finanzen/aktuelles/verbraucher/id_101438534/temu-shein-co-pakete-ausserhalb-der-eu-werden-zum-1-november-teurer.html" target="_blank" rel="noopener noreferrer">t-online：歐盟外包裹 11/1 起變貴</a> · <a href="https://orf.at/stories/3425106/" target="_blank" rel="noopener noreferrer">ORF：廉價網購商品處理費上路</a> · <a href="https://www.deutsche-handwerks-zeitung.de/aenderungen-im-november-2026-zoll-reformen-und-kleinkredite-385584/" target="_blank" rel="noopener noreferrer">Deutsche Handwerks Zeitung：十一月新制</a> · <a href="https://www.test.de/Verbraucherkreditrichtlinie-6337900-0/" target="_blank" rel="noopener noreferrer">Stiftung Warentest：新版消費信貸指令</a> · <a href="https://www.haendlerbund.de/de/ratgeber/recht/verbraucherkreditrichtlinie" target="_blank" rel="noopener noreferrer">Händlerbund：消費信貸指令對付款方式的新規</a> · <a href="https://www.netzwelt.de/news/259765-ab-20-november-paypal-ratepay-klarna-spaeter-bezahlen-ploetzlich-abgelehnt.html" target="_blank" rel="noopener noreferrer">netzwelt：11/20 起「稍後付款」可能被拒</a> · <a href="https://www.stuttgarter-zeitung.de/wirtschaft/ab-november-deutsche-bahn-bietet-familienticket-dauerhaft-an-79529536.html" target="_blank" rel="noopener noreferrer">Stuttgarter Zeitung：德鐵家庭票常態化</a> · <a href="https://www.cash-online.de/a/neue-typklassen-2027-diese-kfz-modelle-werden-teurer-diese-guenstiger-726766/" target="_blank" rel="noopener noreferrer">cash.：2027 年車型等級</a></p>
+<p class="post-sources">📚 來源：<a href="https://www.presseportal.de/blaulicht/pm/120080/6380083" target="_blank" rel="noopener noreferrer">德國海關總署：新的處理費（Union Handling Fee）</a> · <a href="https://www.t-online.de/finanzen/aktuelles/verbraucher/id_101438534/temu-shein-co-pakete-ausserhalb-der-eu-werden-zum-1-november-teurer.html" target="_blank" rel="noopener noreferrer">t-online：歐盟外包裹 11/1 起變貴</a> · <a href="https://orf.at/stories/3425106/" target="_blank" rel="noopener noreferrer">ORF：廉價網購商品處理費上路</a> · <a href="https://www.deutsche-handwerks-zeitung.de/aenderungen-im-november-2026-zoll-reformen-und-kleinkredite-385584/" target="_blank" rel="noopener noreferrer">Deutsche Handwerks Zeitung：十一月新制</a> · <a href="https://www.test.de/Verbraucherkreditrichtlinie-6337900-0/" target="_blank" rel="noopener noreferrer">Stiftung Warentest：新版消費信貸指令</a> · <a href="https://www.haendlerbund.de/de/ratgeber/recht/verbraucherkreditrichtlinie" target="_blank" rel="noopener noreferrer">Händlerbund：消費信貸指令對付款方式的新規</a> · <a href="https://www.netzwelt.de/news/259765-ab-20-november-paypal-ratepay-klarna-spaeter-bezahlen-ploetzlich-abgelehnt.html" target="_blank" rel="noopener noreferrer">netzwelt：11/20 起「稍後付款」可能被拒</a> · <a href="https://www.stuttgarter-zeitung.de/wirtschaft/ab-november-deutsche-bahn-bietet-familienticket-dauerhaft-an-79529536.html" target="_blank" rel="noopener noreferrer">Stuttgarter Zeitung：德鐵家庭票常態化</a> · <a href="https://www.cash-online.de/a/neue-typklassen-2027-diese-kfz-modelle-werden-teurer-diese-guenstiger-726766/" target="_blank" rel="noopener noreferrer">cash.：2027 年車型等級</a></p>
 
 <img src="assets/images/2026/weekly/W44_圖卡2_金屬業十一月起可罷工.png" alt="德國金屬電機業Metall- und Elektroindustrie 2026年11月1日起可發動警告性罷工Warnstreik 和平義務Friedenspflicht 10月31日午夜到期 約370萬名員工 資方Gesamtmetall 10月27日首度出價 2027年7月年薪1%一次性給付 2028年7月起調薪1.3% 協約至2028年底 IG Metall要求12個月內加薪5% 北萊茵-西發利亞邦Nordrhein-Westfalen批評負成長 下薩克森邦Niedersachsen 11月1日起號召罷工 福斯適用企業協約">
 <h3>金屬電機業 11/1 起可發動警告性罷工：資方首度出價 2028 年才調薪 1.3%</h3>
@@ -1095,8 +1095,8 @@ const POSTS = [
 <p>賓士（Mercedes-Benz）10 月 28 日公布第三季財報：歸屬股東的<strong>淨利約 15.2 億歐元</strong>，年增近 28%；營業利益（EBIT）17.7 億歐元，去年同期只有 7.5 億歐元。但這個「成長」主要來自<strong>去年同期的低基期</strong>——當時認列了大筆裁員等一次性費用。營運面其實在退步：<strong>營收 307 億歐元、年減 4.5%</strong>，轎車銷量 40.72 萬輛、年減 8%，其中<strong>中國只賣出 8.68 萬輛、年減 31%</strong>；中國以外的銷量約持平（+1%），純電車則成長 61%。</p>
 <p><strong>為何下修：</strong>賓士前一天已宣布下修 2026 年財測，<strong>轎車部門的調整後銷售報酬率從 3–5% 降到 2–3%</strong>，集團營業利益從原本預估的「顯著成長」改為<strong>與去年持平</strong>，工業部門的自由現金流也會明顯低於預期。公司的說法是中國市場的競爭「愈來愈嚴峻」，加上第四季原物料等成本上升。消息公布當天股價跌約 4–5%；BMW 與福斯稍早也都已下修財測。</p>
 <p><strong>撙節加碼：</strong>據《新蘇黎世報》（NZZ）報導，賓士 <strong>12 月初起</strong>將再以資遣方案縮減數千個職位、以行政部門為主，目標是<strong>每年永久減少 10 億歐元人事成本</strong>（本站 <a href="#oct12-18">W42</a> 已報導賓士傳 12 月重啟第二輪自願離職方案）；整體目標是每年減少 50 億歐元支出，以彌補中國的衰退。執行長 Ola Källenius 也表示，未來要讓更多車款直接在中國研發與生產，並擴大<strong>匈牙利</strong>的產能——他說那裡的成本比德國低約七成。中國依賴要怎麼降低，更具體的計畫預計明年 2 月隨 2027 年財測一起公布。</p>
-<p><strong>數據解讀：</strong>同一週，福斯集團於 10 月 29 日公布第三季財報。福斯第三季全球交車 189 萬輛、年減約 14%，中國少了近四成；市場預期受保時捷（Porsche）商譽減損約 60 億歐元等一次性費用拖累，單季轉為虧損，但這筆減損屬帳面調整、不涉及現金流出。德國三大車廠同時被中國市場拖累，對在德國的就業意味著撙節不會在今年畫下句點。</p>
-<p class="post-sources">📚 來源：<a href="https://www.onvista.de/news/2026/10-28-mercedes-macht-nach-schwachem-vorjahresquartal-mehr-gewinn-0-10-26569138" target="_blank" rel="noopener noreferrer">onvista（dpa-AFX）：賓士獲利在去年低基期上回升</a> · <a href="https://finanzen.net/nachricht/aktien/zahlen-praesentiert-mercedes-benz-aktie-mehr-gewinn-nach-schwachem-vorjahresquartal-16013642" target="_blank" rel="noopener noreferrer">finanzen.net：賓士第三季數字</a> · <a href="https://www.nzz.ch/wirtschaft/neuer-china-schock-fuer-mercedes-der-autobauer-muss-seine-prognose-nach-unten-korrigieren-ld.10045981" target="_blank" rel="noopener noreferrer">NZZ：賓士的中國新衝擊與下修財測</a> · <a href="https://www.onvista.de/news/2026/10-28-mercedes-benz-die-gesenkte-prognose-mahnt-zur-vorsicht-40338625-19-26569412" target="_blank" rel="noopener noreferrer">onvista：下修財測的警訊</a> · <a href="https://www.finanznachrichten.de/nachrichten-2026-10/69810210-volkswagen-absatz-sinkt-im-3-quartal-um-14-prozent-015.htm" target="_blank" rel="noopener noreferrer">finanznachrichten：福斯第三季交車減 14%</a></p>
+<p><strong>數據解讀：</strong>同一週，福斯集團 10 月 29 日公布第三季財報：<strong>稅後虧損 58.2 億歐元</strong>（去年同期虧損約 10.7 億），營業損益為負 58.6 億歐元，比路透調查的分析師預估（約負 26 億）差得多。主因是保時捷（Porsche）<strong>商譽減損 64 億歐元</strong>，一次性費用合計 78 億歐元；這筆減損屬帳面調整、不涉及現金流出。營收 752.8 億歐元、年減 6.3%，全球交車 189 萬輛、年減 14.3%，<strong>中國銷量年減 38.5%</strong>。前三季累計稅後虧損 27.2 億歐元，據 dpa，福斯可能迎來柴油門以來第一個虧損年度。德國三大車廠同時被中國市場拖累，對在德國的就業意味著撙節不會在今年畫下句點。</p>
+<p class="post-sources">📚 來源：<a href="https://www.onvista.de/news/2026/10-28-mercedes-macht-nach-schwachem-vorjahresquartal-mehr-gewinn-0-10-26569138" target="_blank" rel="noopener noreferrer">onvista（dpa-AFX）：賓士獲利在去年低基期上回升</a> · <a href="https://finanzen.net/nachricht/aktien/zahlen-praesentiert-mercedes-benz-aktie-mehr-gewinn-nach-schwachem-vorjahresquartal-16013642" target="_blank" rel="noopener noreferrer">finanzen.net：賓士第三季數字</a> · <a href="https://www.nzz.ch/wirtschaft/neuer-china-schock-fuer-mercedes-der-autobauer-muss-seine-prognose-nach-unten-korrigieren-ld.10045981" target="_blank" rel="noopener noreferrer">NZZ：賓士的中國新衝擊與下修財測</a> · <a href="https://www.onvista.de/news/2026/10-28-mercedes-benz-die-gesenkte-prognose-mahnt-zur-vorsicht-40338625-19-26569412" target="_blank" rel="noopener noreferrer">onvista：下修財測的警訊</a> · <a href="https://www.finanznachrichten.de/nachrichten-2026-10/69810210-volkswagen-absatz-sinkt-im-3-quartal-um-14-prozent-015.htm" target="_blank" rel="noopener noreferrer">finanznachrichten：福斯第三季交車減 14%</a> · <a href="https://www.onvista.de/news/2026/10-29-vw-meldet-milliardenverlust-im-dritten-quartal-0-10-26569698" target="_blank" rel="noopener noreferrer">onvista：福斯第三季虧損 58.2 億歐元</a></p>
 
 <img src="assets/images/2026/weekly/W44_圖卡4_德日聯合聲明提台海.png" alt="德國總理Merz 2026年10月26日至30日亞洲行 新加坡 日本 南韓 10月28日在東京與日本首相高市早苗會談 德日聯合聲明 強調台灣海峽和平穩定的重要性 呼籲和平解決兩岸問題 反對以武力或脅迫改變東海南海現狀 簽署關鍵原物料合作意向書 汽車業稀土來源多元化 嚴重關切任意出口管制 聯邦總統Steinmeier 10月27日至31日國事訪問中國 近8年首位訪中的德國總統 預定與習近平李強會談 南韓站與李在明談國防電池半導體">
 <h3>德日聯合聲明重申台海和平穩定：Merz 亞洲行，Steinmeier 同週訪中</h3>

diff --git a/scripts/cardgen/make_weekly_cards.py b/scripts/cardgen/make_weekly_cards.py
@@ -2553,7 +2553,7 @@ CARDS = [
   theme='#D4740E', badges=[('十一月新制', True), ('消費者', False)], illu='parcelfee',
   title='十一月新制：境外包裹再加 2 € 處理費',
   subtitle='11/1 起歐盟外小包裹加收處理費；11/20 起「先買後付」納入消費信貸法',
-  stats=[('2 €', '每項商品類別的處理費'),
+  stats=[('2 €', '包裹內每種不同商品'),
          ('11/30', '汽車保險年底換約的解約期限')],
   bullets=[
    ('包裹處理費', '7 月起已有每類商品 3 € 的定額關稅，11/1 再加收處理費；由平台與進口商繳納但可能轉嫁，從台灣網購直寄德國同樣適用。'),
